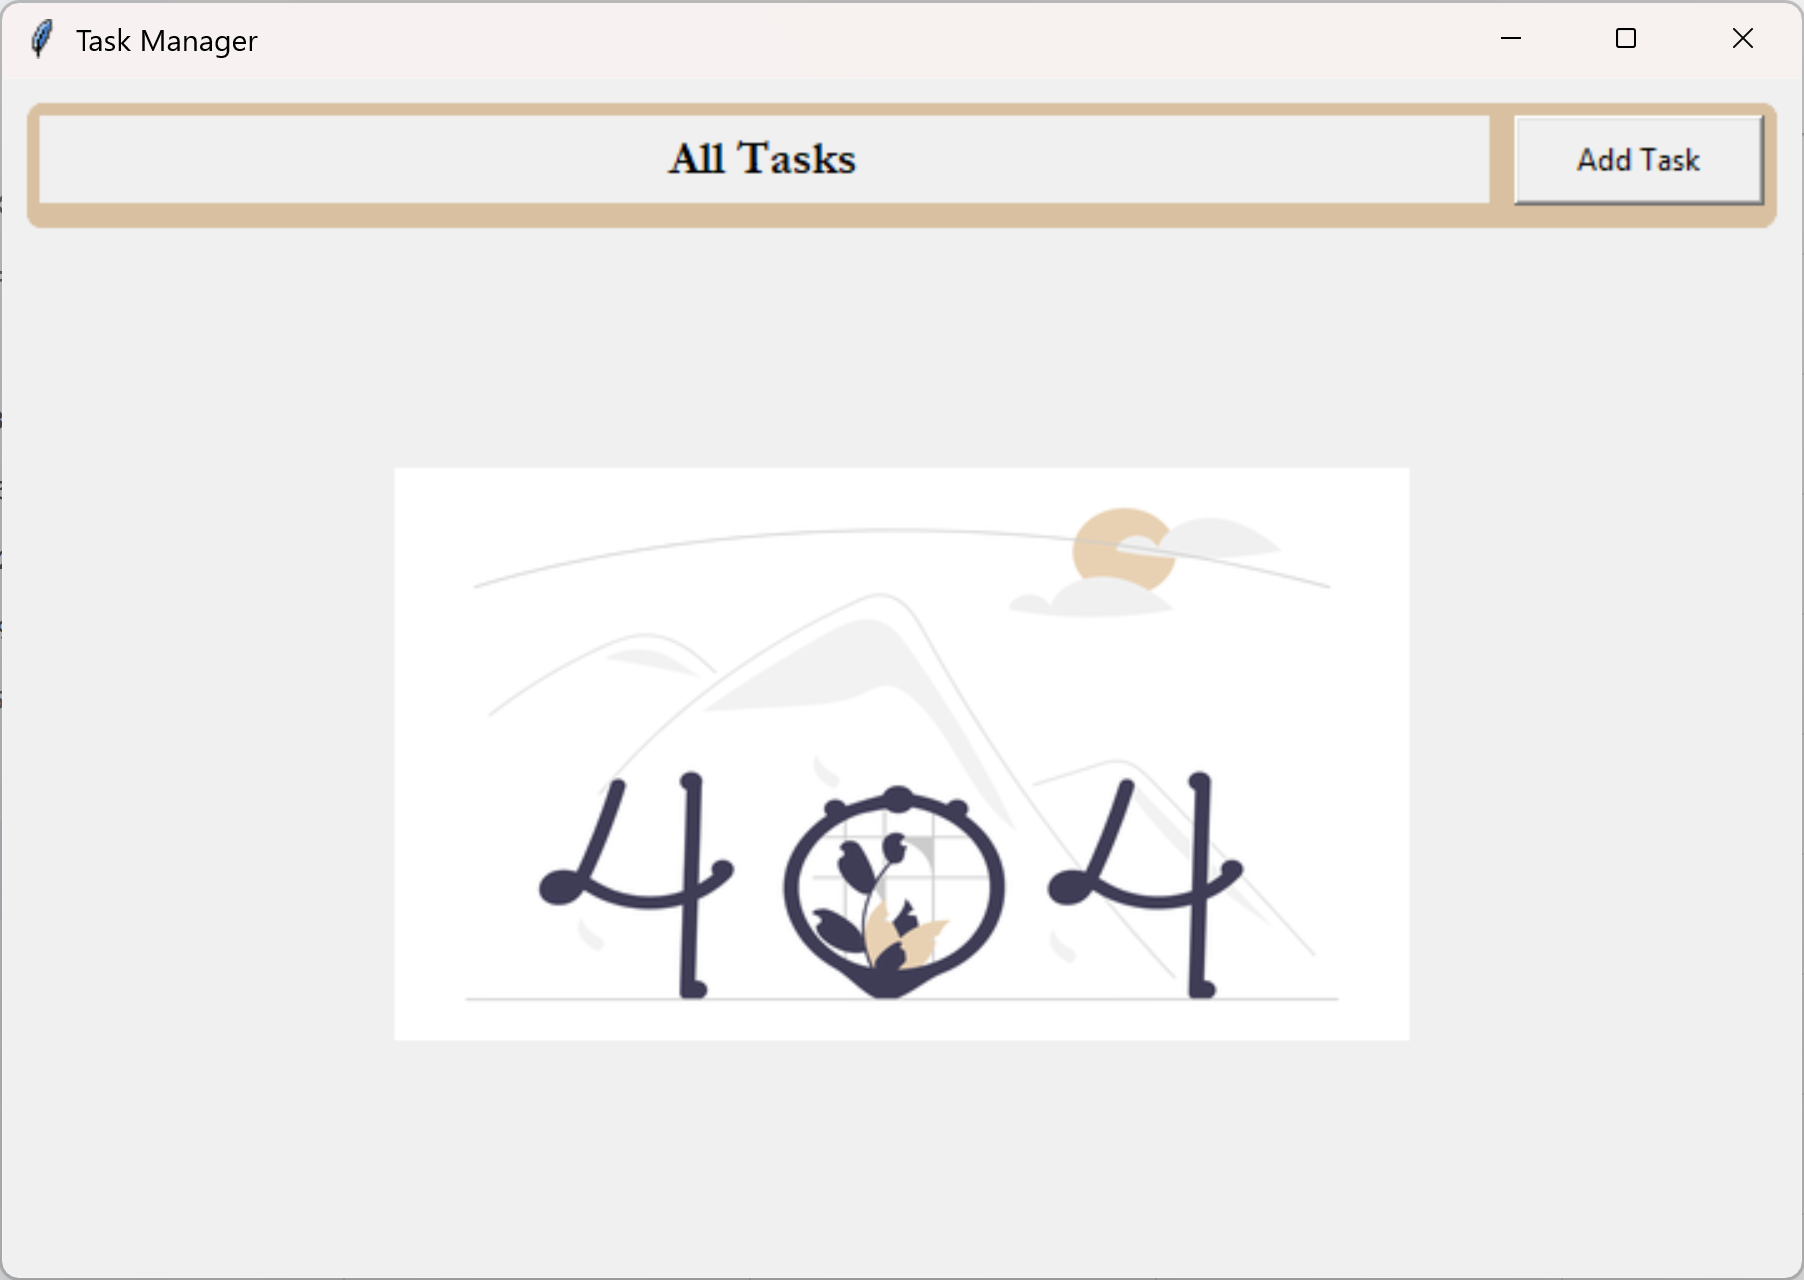
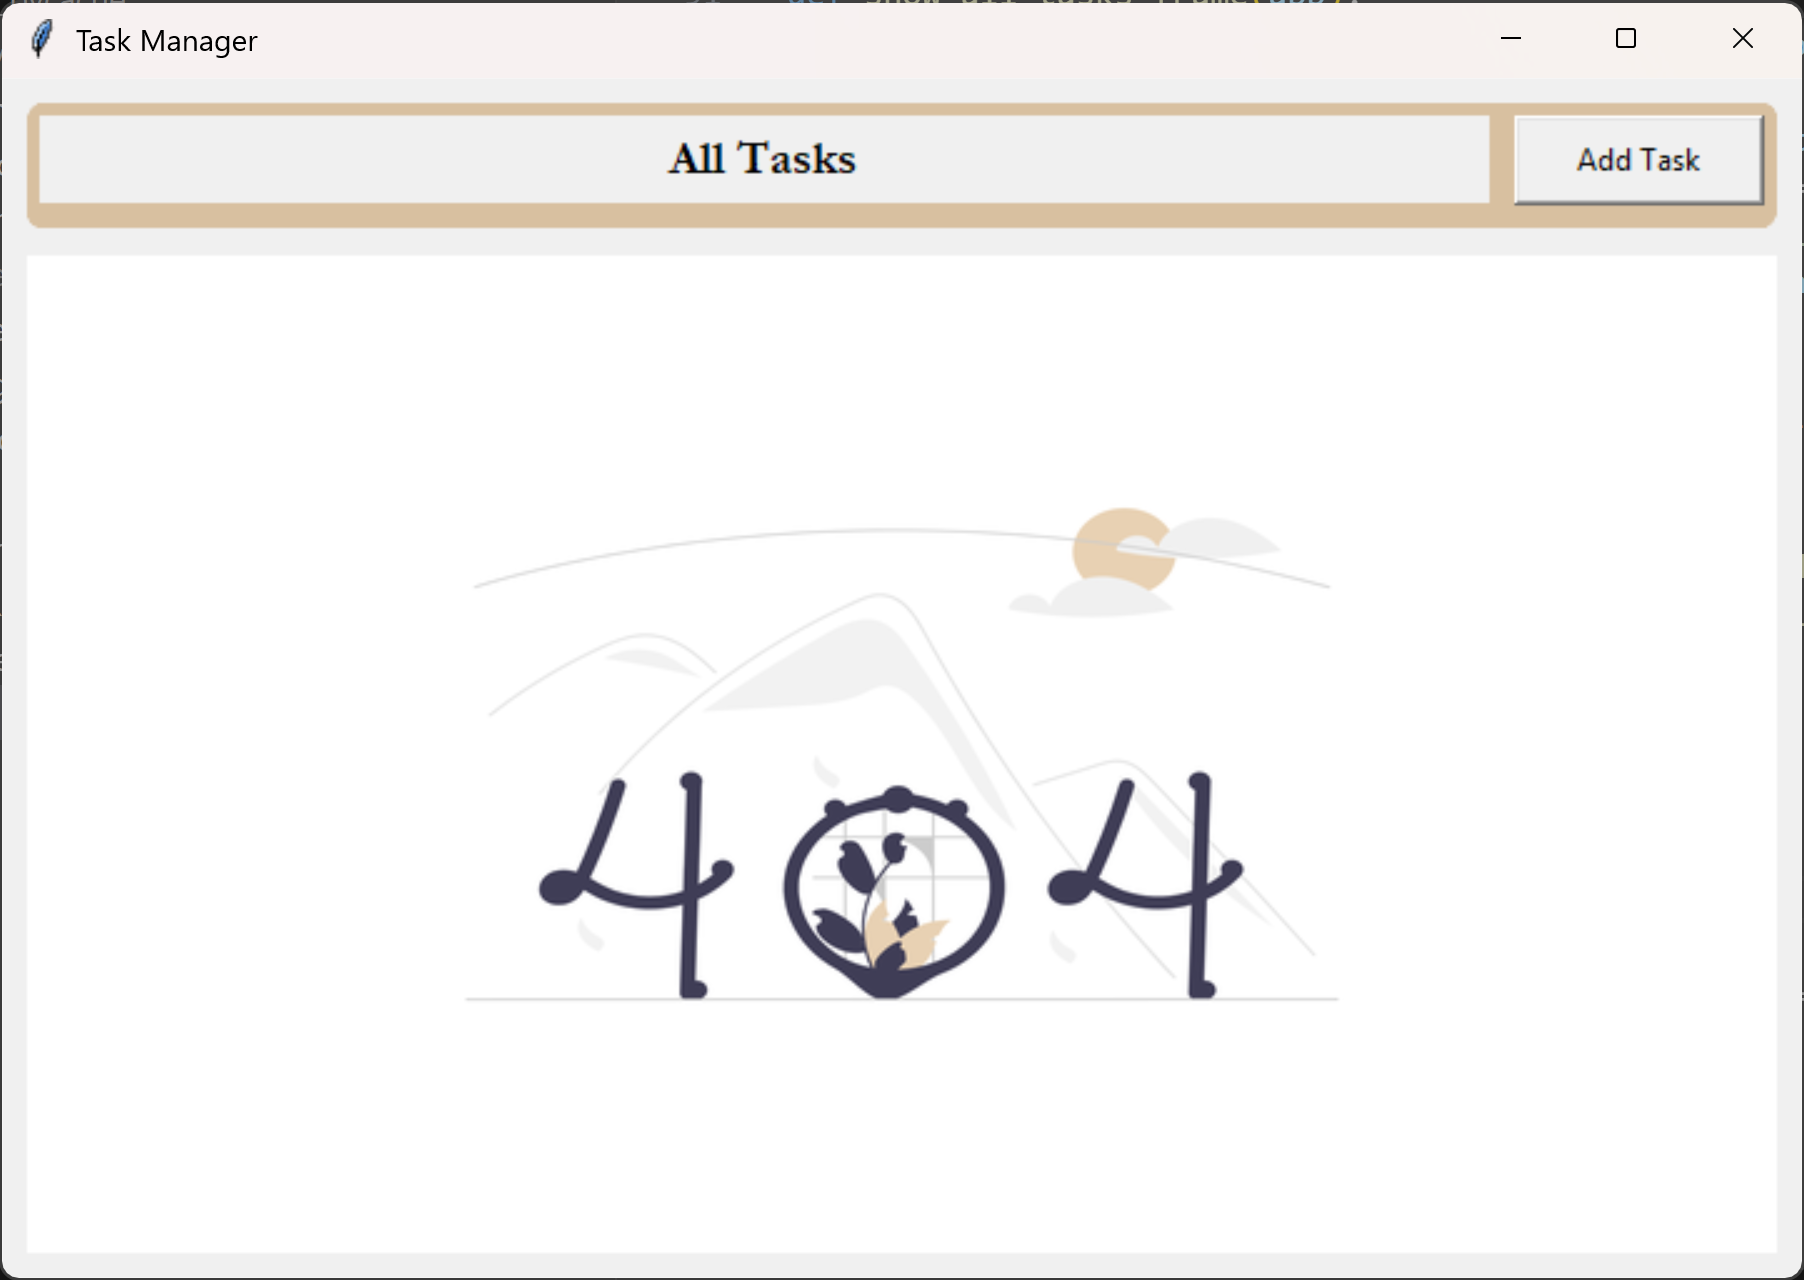
making the not found label background white

Changed region(s): [[0.9933, 0.0, 1.0, 1.0], [0.0, 0.9688, 0.031, 1.0], [0.0, 0.0, 0.031, 0.0312]]

diff --git a/ui.py b/ui.py
@@ -146,7 +146,8 @@ def show_all_tasks_frame(app):
         not_found_label = tk.Label(
             master=not_found_frame,
             image=not_found_image,
-            text="No tasks found in database!")
+            text="No tasks found in database!",
+            background="white")
         not_found_label.image = not_found_image
         not_found_label.grid(column=0, row=0, sticky="nsew")
 
